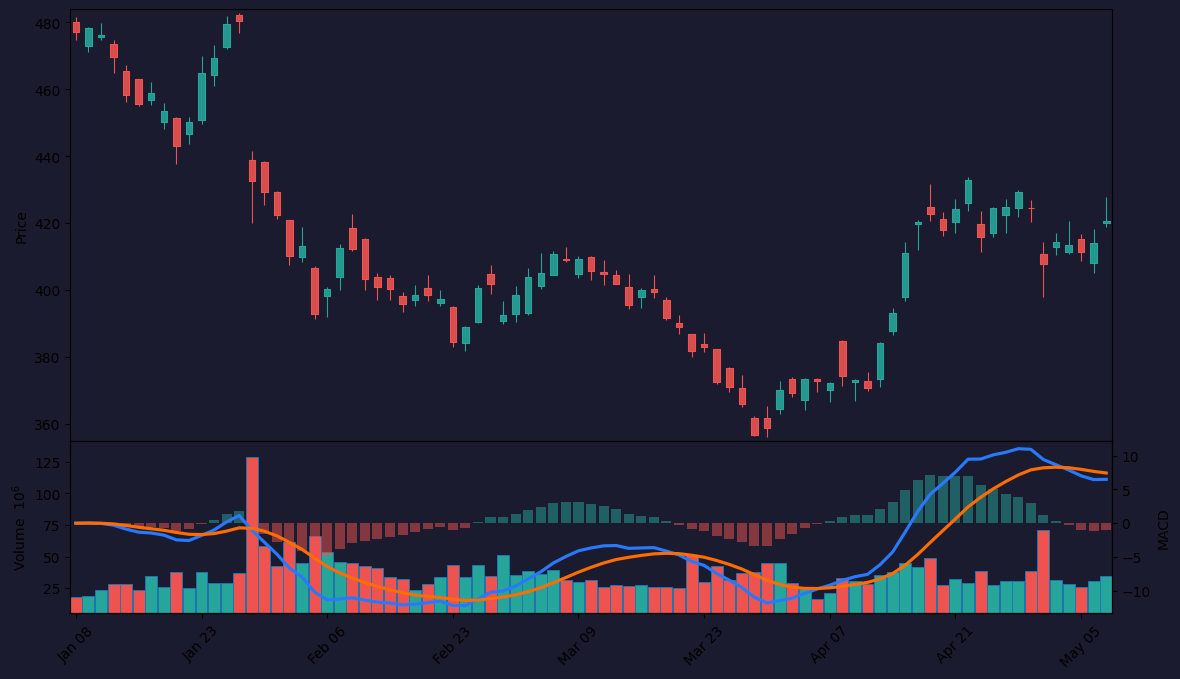
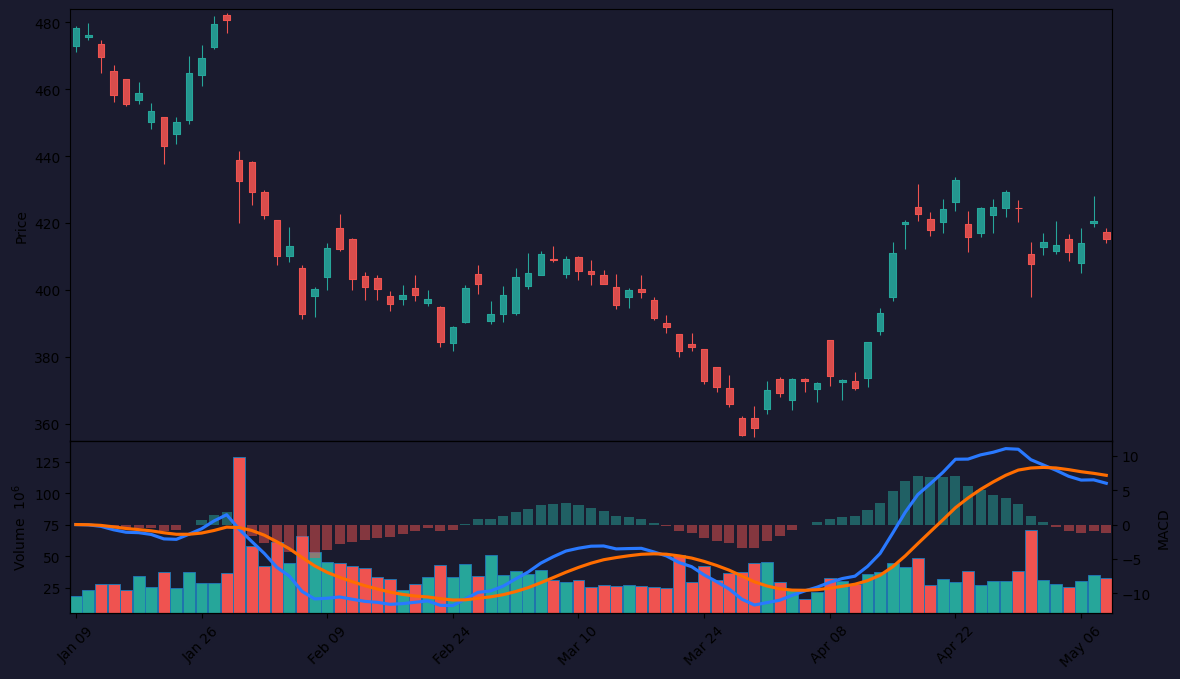
🔬 Add review: Ease of Movement

diff --git a/content/reviews/ease-of-movement.md b/content/reviews/ease-of-movement.md
@@ -1,0 +1,75 @@
+---
+title: "Ease of Movement — Review"
+date: 2026-05-09
+draft: false
+type: reviews
+tags:
+  - ease of movement
+  - volume
+  - accumulation
+categories:
+  - Free
+  - Volume
+rating: 4
+image: "/screenshots/ease-of-movement.png"
+description: "The Ease of Movement indicator effectively combines price and volume to gauge the strength of a trend, but its lagging nature can be a drawback in fast markets."
+---
+
+## Overview
+
+The Ease of Movement (EMV) indicator was developed by Richard Arms to measure the relationship between price movement and volume. It calculates the distance a price moves per unit of volume, with higher values indicating that price is moving easily (with low volume) and lower values suggesting difficulty (high volume). The indicator is typically smoothed with a moving average to reduce noise.
+
+Traders use EMV to confirm trends and identify potential reversals. When EMV is rising and positive, it supports an uptrend; when falling and negative, it supports a downtrend. Divergences between EMV and price can also signal weakening momentum.
+
+While useful as a confirmation tool, EMV can produce false signals in choppy or low-volume markets. It is best used in conjunction with other technical analysis methods rather than as a standalone indicator.
+
+<!--more-->
+
+## Key Features
+
+- Measures price movement per unit of volume
+- Typically plotted as a line with a signal line (moving average)
+- Generates bullish and bearish divergence signals
+- Works across multiple timeframes
+- Available on most major trading platforms
+
+## How to Use
+
+1. Use positive EMV crossings above zero to confirm uptrends
+2. Use negative EMV crossings below zero to confirm downtrends
+3. Look for divergences between EMV and price for reversal signals
+4. Combine with volume trend analysis for stronger confirmation
+
+## Pros & Cons
+
+**Pros:**
+- Simple to interpret with clear zero-line signals
+- Helps filter out weak price movements
+- Effective for confirming trend strength
+- Works well in trending markets
+
+**Cons:**
+- Generates false signals in choppy or sideways markets
+- Is a lagging indicator due to smoothing
+- Can be less reliable in low-volume stocks
+- Requires combination with other indicators for best results
+
+## Who Is This For?
+
+- Trend followers: to confirm the strength of a trend
+- Swing traders: to identify potential entry and exit points
+- Volume-focused traders: to assess the ease of price movement with volume
+
+## Alternatives
+
+- On-Balance Volume (OBV): directly tracks volume flow to confirm price trends
+- Volume Weighted Average Price (VWAP): provides volume-based price average for intraday trading
+- Chaikin Money Flow (CMF): combines volume and price to measure buying/selling pressure over time
+
+## Final Verdict
+
+**Rating: ⭐⭐⭐⭐ (4/5)**
+
+The Ease of Movement indicator is a solid volume-based tool for confirming trends and spotting divergences, but it works best in clear trending markets. It is not a standalone system and should be paired with other analysis to avoid false signals in choppy conditions.
+
+[Get it on TradingView →](/go/tradingview)